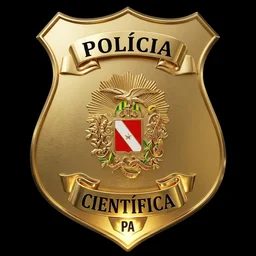
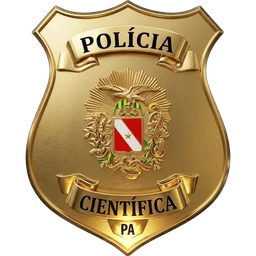
Black Forense: editais em tarja de TV, Érika no centro da capa e textos acertados
Os editais saem do cartão branco e viram lower third — a tarja que o
telejornal usa para apresentar um convidado. No cartão, o distintivo, que é a
peça mais forte do conjunto, virava ícone num quadradinho; agora ele é grande,
fica na frente, e a tarja escura nasce de trás dele e corre para a direita com
sigla, estado e situação. Filete amarelo no topo e ponta cortada em diagonal
são o que dá desenho de tarja, e não de caixa.

Para o distintivo ficar inteiro por cima da tarja, os arquivos foram
recortados: o preto ligado à borda da imagem virou transparência, e o preto de
dentro do distintivo — gravação, faixa escura, sombra de relevo — continuou
opaco. Um recorte só por brilho teria furado justamente esses detalhes.

Capa: Érika no centro, João à esquerda, Miguel à direita.

Textos:
- aulão pré-prova: "um aulão online com os professores, focando no que mais
  cai", que antes lia como se o aulão fosse a matéria;
- 23 mil questões passam a mais de 25 mil, em todas as menções (aba da
  plataforma, item do que leva, recapitulação e descrição para buscadores);
- Dr. Bonet: "nossa IA treinada com as principais bibliografias de medicina
  legal";
- eBooks: o recorte é o da prova de médico-legista, não "de perícia".

Claude-Session: https://claude.ai/code/session_01Y9TFsAutNQw4KSdTxmhhQq

diff --git a/app/black/CarrosselEditais.tsx b/app/black/CarrosselEditais.tsx
@@ -71,12 +71,12 @@ export interface EditalDaFaixa {
 }
 
 /**
- * Os distintivos dos órgãos, todos com arte do próprio Clube.
+ * Os distintivos dos órgãos, com arte do próprio Clube.
  *
- * ELES SUBSTITUÍRAM OS BRASÕES ANTIGOS, que eram de outra campanha e de outro
- * desenho. Cada arquivo é o distintivo do órgão que realiza o concurso, num
- * quadrado com fundo preto — por isso a moldura do cartão é preta e do mesmo
- * tamanho: o fundo da arte vira o fundo da peça, e o distintivo flutua.
+ * Os arquivos vieram em quadrados de fundo preto e foram recortados: o preto
+ * ligado à borda da imagem virou transparência, e o preto de dentro do
+ * distintivo — gravação, faixa escura, sombra de relevo — ficou opaco. É o que
+ * deixa o distintivo inteiro, sem moldura, por cima da faixa.
  *
  * Estado sem arquivo cai na pastilha com a UF, e é por isso que a pastilha
  * continua aqui: a lista é do Clube, e quem acrescentar um estado amanhã não
@@ -84,41 +84,64 @@ export interface EditalDaFaixa {
  */
 const COM_DISTINTIVO = new Set(["AC", "DF", "ES", "MA", "MG", "PA", "RJ", "TO"]);
 
+/**
+ * Um edital, em forma de lower third — a tarja de televisão que apresenta
+ * quem está falando.
+ *
+ * A PRIMEIRA VERSÃO ERA UM CARTÃO BRANCO com o distintivo num quadradinho, e
+ * o distintivo, que é a peça mais forte do conjunto, virava ícone. Agora ele é
+ * o protagonista: grande, à esquerda, saindo para cima e para baixo da tarja
+ * escura, que nasce de trás dele e corre para a direita com sigla, estado e
+ * situação — do jeito que um telejornal apresenta um convidado. A ponta
+ * cortada em diagonal e o filete amarelo no topo são o que dá o desenho de
+ * tarja, e não de caixa.
+ */
 function Cartao({ edital }: { edital: EditalDaFaixa }) {
   const { uf, sigla, orgao, estado } = edital;
-  const cor = estado ? NIVEL_COR[estado.nivel] : "#b38f00";
+  const cor = estado ? NIVEL_COR[estado.nivel] : "#ffcd07";
   // O nome vem da tabela de estados, não do monitor: o cartão precisa dizer
   // "Minas Gerais" mesmo quando o monitor ainda não tem etapa para ele.
   const nome = ESTADO_POR_UF[uf]?.nome ?? uf;
 
   return (
-    <article className="flex w-[300px] shrink-0 items-center gap-4 overflow-hidden rounded-2xl border border-gray-200 bg-white p-4 shadow-[0_8px_30px_-14px_rgba(0,0,0,0.15)]">
+    <article className="relative h-[132px] w-[360px] shrink-0">
+      {/* A tarja. Começa no meio do distintivo, para ele parecer estar na
+          frente dela e não ao lado. */}
+      <div
+        className="absolute inset-y-[26px] left-[52px] right-0 overflow-hidden bg-[#0b0b0d] shadow-[0_14px_30px_-12px_rgba(0,0,0,0.45)]"
+        style={{ clipPath: "polygon(0 0, 100% 0, calc(100% - 22px) 100%, 0 100%)" }}
+      >
+        <span className="absolute inset-x-0 top-0 h-[3px] bg-[#ffcd07]" />
+        <div className="flex h-full flex-col justify-center pl-[80px] pr-8">
+          <p className="truncate text-lg font-black leading-tight text-white">{sigla}</p>
+          <p className="truncate text-[10px] font-bold uppercase tracking-[0.18em] text-white/50">
+            {nome}
+          </p>
+          <p className="mt-1 truncate text-[12px] font-semibold" style={{ color: cor }}>
+            {estado ? linhaDoConcurso(estado) : "Preparatório incluso"}
+          </p>
+        </div>
+      </div>
+
       {COM_DISTINTIVO.has(uf) ? (
         <Image
           src={`/black/orgaos/${uf}.webp`}
           alt={`Distintivo — ${orgao}`}
           width={256}
           height={256}
-          sizes="72px"
-          className="h-[72px] w-[72px] shrink-0 rounded-xl bg-black object-contain"
+          sizes="124px"
+          // `drop-shadow` e não `shadow`: a sombra segue o contorno do
+          // distintivo, e não o quadrado transparente em volta dele.
+          className="absolute left-0 top-1/2 z-10 h-[124px] w-[124px] -translate-y-1/2 object-contain drop-shadow-[0_10px_14px_rgba(0,0,0,0.35)]"
         />
       ) : (
         <span
-          className="grid h-[72px] w-[72px] shrink-0 place-items-center rounded-xl text-sm font-black text-white"
+          className="absolute left-[14px] top-1/2 z-10 grid h-[96px] w-[96px] -translate-y-1/2 place-items-center rounded-2xl text-xl font-black text-gray-900"
           style={{ backgroundColor: cor }}
         >
           {uf}
         </span>
       )}
-      <div className="min-w-0">
-        <p className="truncate text-base font-black leading-tight text-gray-900">{sigla}</p>
-        <p className="truncate text-[11px] font-bold uppercase tracking-wider text-gray-400">
-          {nome}
-        </p>
-        <p className="mt-1.5 truncate text-[13px] font-semibold" style={{ color: cor }}>
-          {estado ? linhaDoConcurso(estado) : "Preparatório incluso"}
-        </p>
-      </div>
     </article>
   );
 }
@@ -141,13 +164,13 @@ export default function CarrosselEditais({ editais }: { editais: EditalDaFaixa[]
       }}
     >
       <div
-        className="carousel-track flex w-max gap-4 px-4 py-2 motion-reduce:animate-none"
+        className="carousel-track flex w-max gap-6 px-4 py-2 motion-reduce:animate-none"
         // Mesma razão da faixa do topo: o ritmo padrão da classe corre demais
         // para quem está lendo o nome de um estado de cada vez.
         style={{ animationDuration: "80s" }}
       >
         {[0, 1].map((copia) => (
-          <div key={copia} className="flex shrink-0 gap-4" aria-hidden={copia === 1}>
+          <div key={copia} className="flex shrink-0 gap-6" aria-hidden={copia === 1}>
             {fila.map((e, i) => (
               <Cartao key={`${copia}-${e.uf}-${i}`} edital={e} />
             ))}

diff --git a/app/black/page.tsx b/app/black/page.tsx
@@ -312,15 +312,15 @@ export default async function BlackPage() {
               },
               {
                 t: "Aulão pré-prova",
-                d: "Na reta final de cada concurso, um aulão online com os professores no que mais cai e no que costuma derrubar candidato.",
+                d: "Na reta final de cada concurso, um aulão online com os professores, focando no que mais cai e no que costuma derrubar o candidato.",
               },
               {
                 t: "Almanaque Forense",
-                d: "Plataforma de questões completa: mais de 23 mil questões, com comentários do professor, vídeos explicativos, simulados personalizáveis e muito mais.",
+                d: "Plataforma de questões completa: mais de 25 mil questões, com comentários do professor, vídeos explicativos, simulados personalizáveis e muito mais.",
               },
               {
                 t: "Dr. Bonet, 24 horas",
-                d: "A nossa IA treinada nas referências da área responde sua dúvida aí mesmo — inclusive às três da manhã, quando o professor está dormindo.",
+                d: "Nossa IA treinada com as principais bibliografias de medicina legal. Responde sua dúvida aí mesmo, inclusive às 3 da manhã, quando o professor está dormindo.",
               },
               {
                 t: "Flashcards, mapas e mini-jogos",
@@ -328,7 +328,7 @@ export default async function BlackPage() {
               },
               {
                 t: "eBooks de todas as matérias",
-                d: "Escritos pelos nossos professores a partir das principais bibliografias de cada matéria, já no recorte que a prova de perícia cobra — você estuda pelo que cai, não pelo livro inteiro.",
+                d: "Escritos pelos nossos professores a partir das principais bibliografias de cada matéria, já no recorte que a prova de médico-legista cobra — você estuda pelo que cai, não pelo livro inteiro.",
               },
               {
                 t: "Grupo com professores de med. legal e monitor de direito",
@@ -558,13 +558,13 @@ export default async function BlackPage() {
                 "Material pré-edital e pós-edital de todos os concursos autorizados",
                 "Atualização gratuita quando o edital sai",
                 "Grupo de alunos e professores",
-                "Banco de questões exclusivo, com mais de 23 mil questões",
+                "Banco de questões exclusivo, com mais de 25 mil questões",
                 "Vídeo do professor resolvendo as questões",
                 "Nove eBooks de medicina legal",
                 "Resumos ilustrados e mapas mentais",
                 "Flashcards para revisão ativa",
                 "Mini-jogos para fixar conceito",
-                "Dr. Bonet, a nossa IA treinada nas referências da área",
+                "Dr. Bonet, nossa IA treinada com as principais bibliografias de medicina legal",
                 "Contato direto com o professor para tirar dúvida",
                 "Aulão pré-prova e suporte pós-prova",
               ].map((t) => (

diff --git a/app/black/Plataforma.tsx b/app/black/Plataforma.tsx
@@ -44,7 +44,7 @@ const RECURSOS: Recurso[] = [
   {
     chave: "questoes",
     nome: "Questões",
-    titulo: "23 mil questões, com o professor explicando",
+    titulo: "Mais de 25 mil questões, com o professor explicando",
     texto:
       "O Almanaque Forense reúne as questões das bancas que cobram o cargo, com comentário escrito e vídeo do professor resolvendo as que derrubam mais gente. Errar com explicação do lado é o que transforma erro em ponto.",
     midia: "questoes.mp4",
@@ -78,7 +78,7 @@ const RECURSOS: Recurso[] = [
     nome: "eBooks",
     titulo: "eBooks de todas as matérias",
     texto:
-      "Escritos pelos nossos professores a partir das principais bibliografias de cada matéria, já no recorte que a prova de perícia cobra. Você estuda pelo que cai, e não pelo livro inteiro.",
+      "Escritos pelos nossos professores a partir das principais bibliografias de cada matéria, já no recorte que a prova de médico-legista cobra. Você estuda pelo que cai, e não pelo livro inteiro.",
     midia: "ebooks.mp4",
   },
   {

diff --git a/app/black/layout.tsx b/app/black/layout.tsx
@@ -10,7 +10,7 @@ import type { Metadata } from "next";
 export const metadata: Metadata = {
   title: "Black Forense 2026 — todos os editais de médico-legista | Clube Forense",
   description:
-    "Acesso ao preparatório de todos os concursos de médico-legista autorizados hoje, mais todo edital que sair nos próximos 2 anos. Professores que são médicos-legistas, 23 mil questões comentadas e o Dr. Bonet.",
+    "Acesso ao preparatório de todos os concursos de médico-legista autorizados hoje, mais todo edital que sair nos próximos 2 anos. Professores que são médicos-legistas, mais de 25 mil questões comentadas e o Dr. Bonet.",
   openGraph: {
     title: "Black Forense 2026 — todos os editais de médico-legista",
     description:

diff --git a/app/black/HeroComposicao.tsx b/app/black/HeroComposicao.tsx
@@ -20,8 +20,8 @@
 import Image from "next/image";
 
 const PROFESSORES = [
-  { arquivo: "erika.png", nome: "Dra. Erika Anjos" },
   { arquivo: "joao-paulo.png", nome: "Dr. João Paulo" },
+  { arquivo: "erika.png", nome: "Dra. Erika Anjos" },
   { arquivo: "miguel.png", nome: "Dr. Miguel Souza" },
 ];
 
